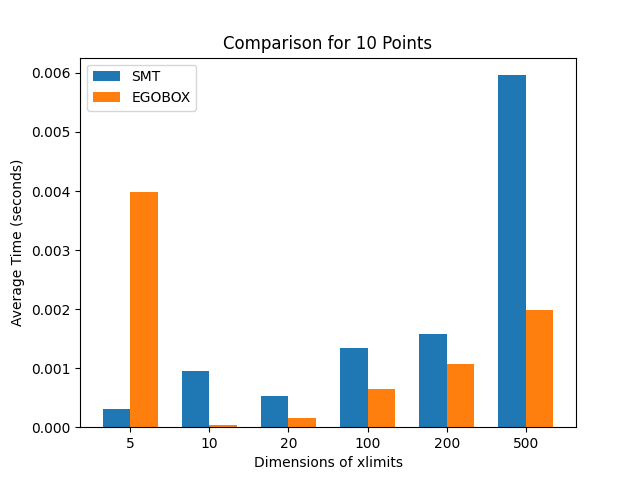
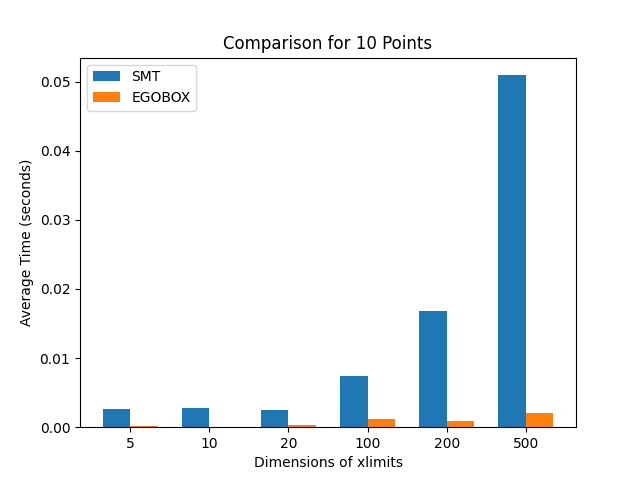
add center_maximin and maximin comparison

diff --git a/bench_centered_maximin.py b/bench_centered_maximin.py
@@ -1,0 +1,32 @@
+from benchmark import run_benchmark, write_to_csv
+from diagram_creator import sort_dimensions, create_chart, read_from_csv
+from smt.sampling_methods import LHS
+import egobox as egx
+import time
+
+start = time.time()
+LIBRARIES = ["SMT", "EGOBOX"]
+data = {"SMT": {}, "EGOBOX": {}}
+# NB_POINTS = [10, 50, 100, 250, 500, 1000]
+NB_POINTS = [10, 13, 15]
+
+
+def smt_lhs_centered_maximin(xlimits, num_points):
+    sampling = LHS(xlimits=xlimits, criterion="centermaximin")
+    sampling(num_points)
+
+
+def egobox_lhs_centered_maximin(xlimits, num_points):
+    xspecs = egx.to_specs(xlimits)
+    egx.sampling(egx.Sampling.LHS_CENTERED_MAXIMIN, xspecs, num_points)
+
+
+ALGOS = {"SMT": smt_lhs_centered_maximin, "EGOBOX": egobox_lhs_centered_maximin}
+
+if __name__ == "__main__":
+    write_to_csv(
+        "results_benchmark_centered_maximin.csv", run_benchmark(LIBRARIES, ALGOS)
+    )
+    read_from_csv("results_benchmark_centered_maximin.csv")
+    create_chart(sort_dimensions())
+    print(f"{time.time() - start} seconds")

diff --git a/bench_maximin.py b/bench_maximin.py
@@ -1,0 +1,30 @@
+from benchmark import run_benchmark, write_to_csv
+from diagram_creator import sort_dimensions, create_chart, read_from_csv
+from smt.sampling_methods import LHS
+import egobox as egx
+import time
+
+start = time.time()
+LIBRARIES = ["SMT", "EGOBOX"]
+data = {"SMT": {}, "EGOBOX": {}}
+# NB_POINTS = [10, 50, 100, 250, 500, 1000]
+NB_POINTS = [10, 13, 15]
+
+
+def smt_lhs_maximin(xlimits, num_points):
+    sampling = LHS(xlimits=xlimits, criterion="maximin")
+    sampling(num_points)
+
+
+def egobox_lhs_maximin(xlimits, num_points):
+    xspecs = egx.to_specs(xlimits)
+    egx.sampling(egx.Sampling.LHS_MAXIMIN, xspecs, num_points)
+
+
+ALGOS = {"SMT": smt_lhs_maximin, "EGOBOX": egobox_lhs_maximin}
+
+if __name__ == "__main__":
+    write_to_csv("results_benchmark_maximin.csv", run_benchmark(LIBRARIES, ALGOS))
+    read_from_csv("results_benchmark_maximin.csv")
+    create_chart(sort_dimensions())
+    print(f"{time.time() - start} seconds")
